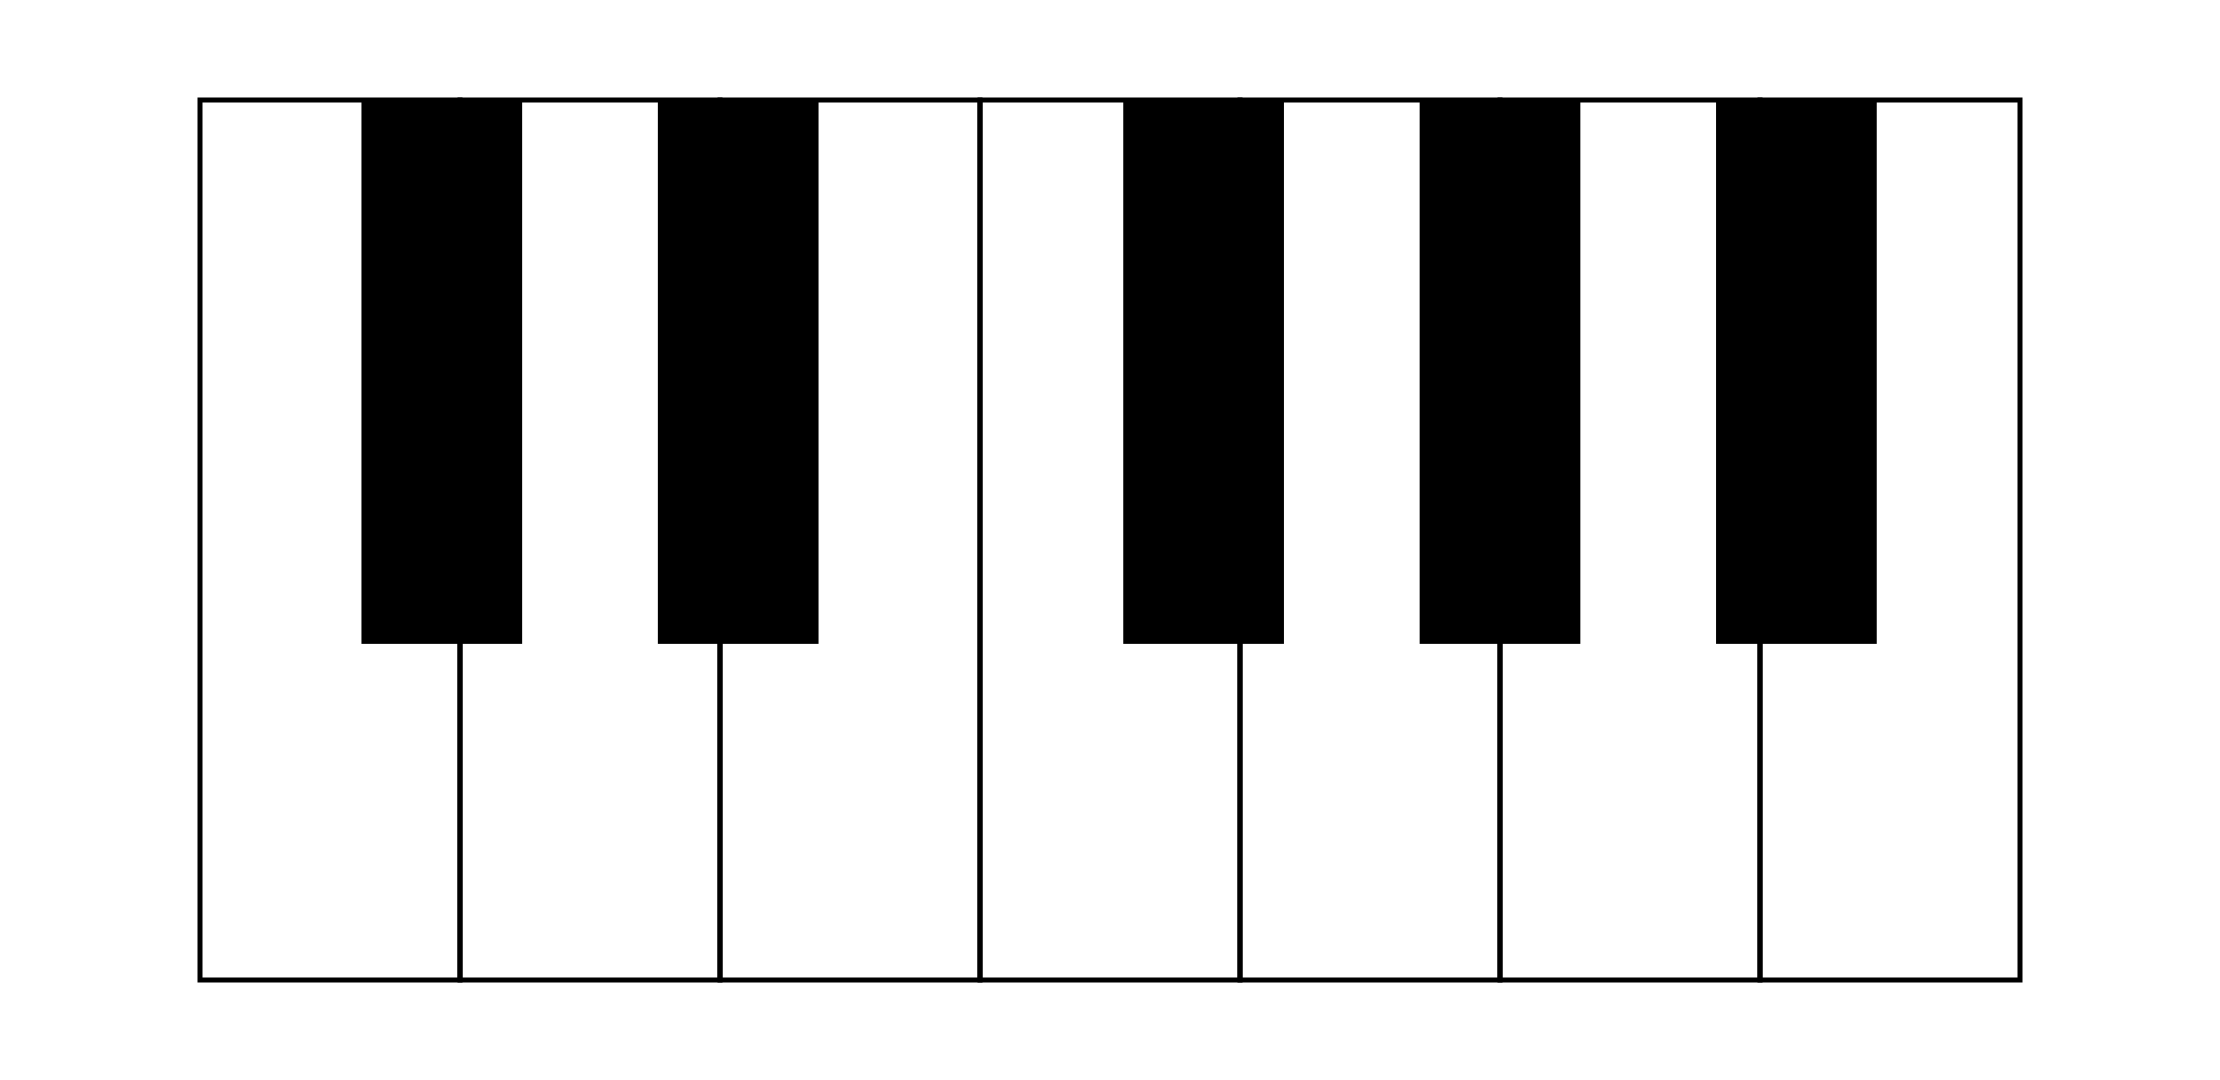
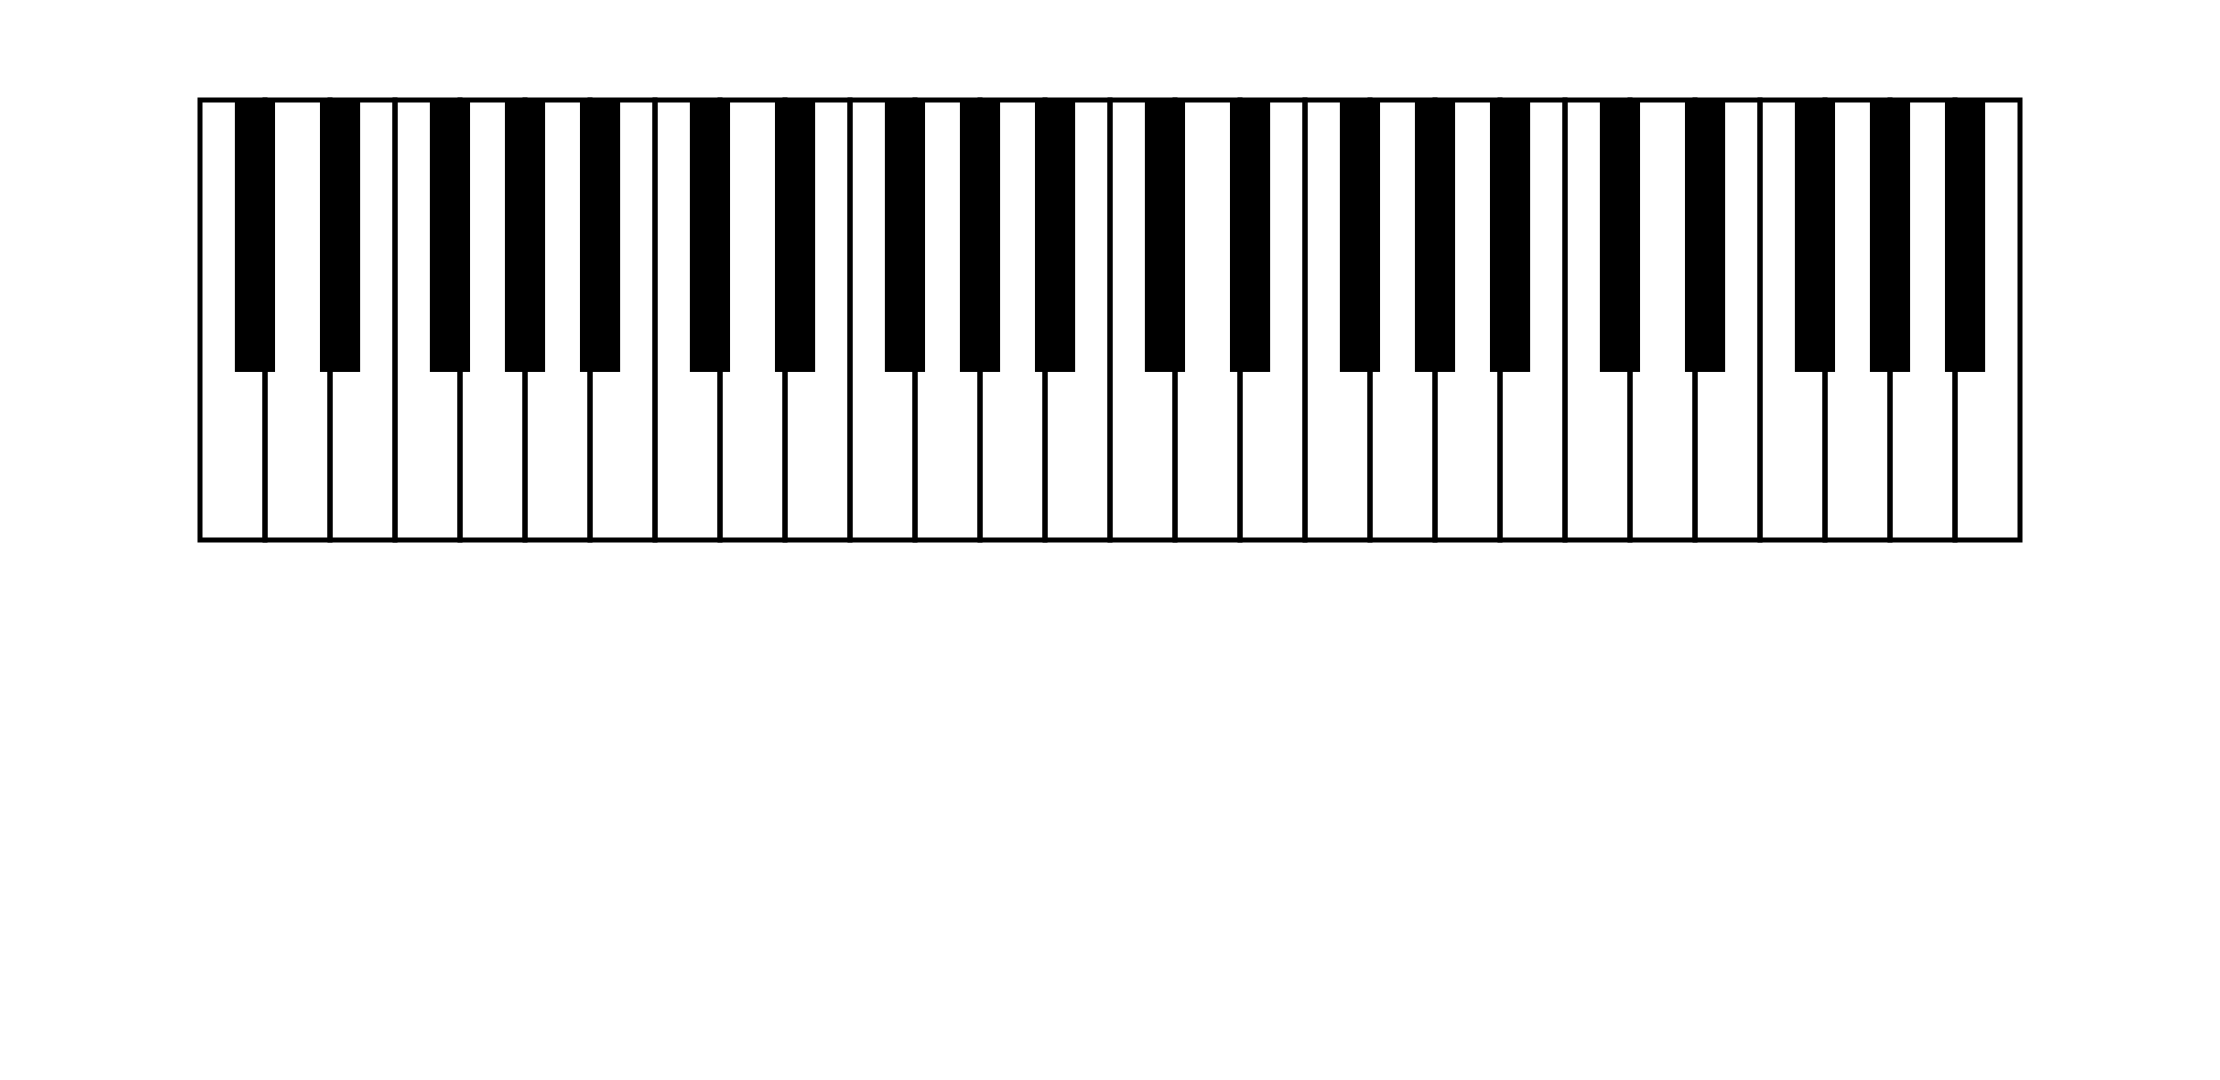
Make keyboard span multiple octaves (hacky!).

Changed region(s): [[0.0932, 0.0917, 0.9014, 0.6111], [0.0932, 0.8861, 0.9324, 0.9167]]

diff --git a/keyboard.py b/keyboard.py
@@ -2,11 +2,22 @@
 Draw images of a piano keyboard with given notes marked.
 
 TODO:
+Animate. GIF? Video? (webm?)
+Combine with fretboard in single image.
 Allow arbitrary first and last key.
+    Work out range of guitar in standard tuning with same # frets as own (22?) and match it. C2 to C6?
+    Default to range of full 88 key piano (because both ends are odd!). Simpler to just do whole octaves?
+    Do same for bass.
 Define vertices for each note then repeat for octaves.
     White notes should include shape of black not just rectangle drawn over.
+    Check by colouring each key blue separately.
+    Function to draw note: input note and colour (including transparency).
+        Separate border and fill?
 Operator overloads for point (add, subtract).
 Option to print note names on keys.
+    Or scale degrees.
+Encapsulate coordinate transformations in drawing functions.
+SVG equivalent (for React).
 """
 
 from dataclasses import dataclass
@@ -15,10 +26,12 @@ from typing import List
 
 import cairo
 
+
+# TODO: use this to define range and address individual notes (e.g. to colour).
 @dataclass
-class NoteMarker:
-    string: int
-    fret: int
+class Note:
+    noteName: str
+    octave: int
 
 @dataclass
 class Point:
@@ -30,10 +43,18 @@ class Point:
 
 
 # TODO: no global state!
+
+# Phone screen dimensions.
 image_width = 2220
 image_height = 1080
-# TODO: optimise for tablet and laptop dimensions also.
 
+# Tablet screen dimensions.
+# image_width = 2160
+# image_height = 1620
+
+# Tablet screen dimensions.
+# image_width = 2560
+# image_height = 1600
 
 def get_transforms(top_left: Point, bottom_right: Point):
     # TODO: do we need global_to_normed?
@@ -80,22 +101,26 @@ def main():
     context.set_antialias(cairo.ANTIALIAS_BEST)
 
     # Set line width and color.
-    black = (0, 0, 0)
+    black_key_colour = (0, 0, 0)
+    # t = 0.7
+    # black_key_colour = (t, t, t)
     line_width = 5  # TODO: scale with image.
     context.set_line_width(line_width)
-    context.set_source_rgb(*black)
+    context.set_source_rgb(*black_key_colour)
 
     # Establish coordinate system transforms.
     # TODO: make padding a ratio of image size not absolute pixels.
+    # TODO: enforce aspect ratio limits for keyboard so never squashed.
     padding_horizontal = 200
     padding_vertical = 100
     top_left = Point(padding_horizontal, padding_vertical)
-    bottom_right = Point(image_width - padding_horizontal, image_height - padding_vertical)
+    bottom_right = Point(image_width - padding_horizontal, image_height/2)  #  - padding_vertical)
     _, normed_to_global = get_transforms(top_left, bottom_right)
 
     # Define keyboard dimensions.
     golden_ratio = 2/(1 + math.sqrt(5))
-    num_white_keys = 7
+    num_octaves = 4
+    num_white_keys = 7*num_octaves
     white_key_width = 1/num_white_keys
     black_key_width = golden_ratio*white_key_width
     
@@ -113,11 +138,15 @@ def main():
         draw_polygon(context, vertices, fill=False)
     
     # Draw black keys.
-    c = 0.01
-    d = 0.02
-    offsets = [-c, c, -d, 0, d]
-    for k, offset in zip([1, 2, 4, 5, 6], offsets):
-        left = k*white_key_width - black_key_width/2 + offset
+    c = black_key_width/4
+    d = c
+    offsets = num_octaves*[-c, c, -d, 0, d]
+    multiples = []
+    for octave in range(num_octaves):
+        for black_key_position in [1, 2, 4, 5, 6]:
+            multiples.append(7*octave + black_key_position)
+    for multiple, offset in zip(multiples, offsets):
+        left = multiple*white_key_width - black_key_width/2 + offset
         right = left + black_key_width
         vertices = normed_to_global_list([
                 Point(left, 0),
